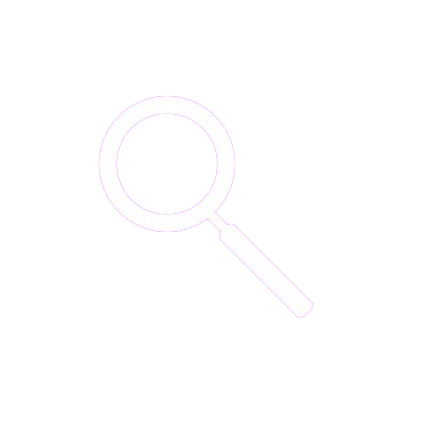
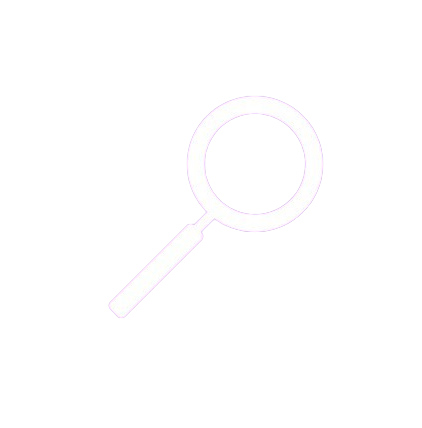
modified searchbox and sidebar

diff --git a/index.html b/index.html
@@ -1191,28 +1191,29 @@
                             <section id="block-3" class="widget widget_block">
                                 <div class="wp-block-group">
                                     <div class="wp-block-group__inner-container is-layout-flow wp-block-group-is-layout-flow">
-                                        <h2 class="wp-block-heading">Recent Posts</h2>
+                                        <h2 class="wp-block-heading">Open-Source Projects</h2>
                                         <ul class="wp-block-latest-posts__list wp-block-latest-posts">
-                                            <li><a class="wp-block-latest-posts__post-title" href="https://ryancv.bslthemes.com/app-developer/2020/04/28/brand-identity-with-code/">Brand Identity with Code</a></li>
-                                            <li><a class="wp-block-latest-posts__post-title" href="https://ryancv.bslthemes.com/app-developer/2020/04/28/data-center-infrastructure/">Data Center Infrastructure</a></li>
+                                            <li><a class="wp-block-latest-posts__post-title" href="timeless.html">Timeless</a></li>
+                                            <!-- <li><a class="wp-block-latest-posts__post-title" href="https://ryancv.bslthemes.com/app-developer/2020/04/28/data-center-infrastructure/">Data Center Infrastructure</a></li>
                                             <li><a class="wp-block-latest-posts__post-title" href="https://ryancv.bslthemes.com/app-developer/2020/04/28/music-player-design/">Music Player Design</a></li>
                                             <li><a class="wp-block-latest-posts__post-title" href="https://ryancv.bslthemes.com/app-developer/2020/04/28/data-analytics-dashboard/">Data Analytics Dashboard</a></li>
-                                            <li><a class="wp-block-latest-posts__post-title" href="https://ryancv.bslthemes.com/app-developer/2020/04/28/creativity-is-more-than/">Creativity Is More Than</a></li>
+                                            <li><a class="wp-block-latest-posts__post-title" href="https://ryancv.bslthemes.com/app-developer/2020/04/28/creativity-is-more-than/">Creativity Is More Than</a></li> -->
                                         </ul>
                                     </div>
                                 </div>
                             </section>
+                            
                             <section id="block-4" class="widget widget_block">
                                 <div class="wp-block-group">
                                     <div class="wp-block-group__inner-container is-layout-flow wp-block-group-is-layout-flow">
-                                        <h2 class="wp-block-heading">Recent Comments</h2>
+                                        <h2 class="wp-block-heading">Coming Soon</h2>
                                         <ol class="wp-block-latest-comments">
                                             <li class="wp-block-latest-comments__comment">
                                                 <article>
-                                                    <footer class="wp-block-latest-comments__comment-meta"><span class="wp-block-latest-comments__comment-author">Ryan Adlard</span> on <a class="wp-block-latest-comments__comment-link" href="https://ryancv.bslthemes.com/app-developer/2020/04/28/creativity-is-more-than/#comment-2">Creativity Is More Than</a></footer>
+                                                    <footer class="wp-block-latest-comments__comment-meta"><span class="wp-block-latest-comments__comment-author">Smart Brain</span> App <a class="wp-block-latest-comments__comment-link" href="https://ryancv.bslthemes.com/app-developer/2020/04/28/creativity-is-more-than/#comment-2">A facial recognition software</a></footer>
                                                 </article>
                                             </li>
-                                            <li class="wp-block-latest-comments__comment">
+                                            <!-- <li class="wp-block-latest-comments__comment">
                                                 <article>
                                                     <footer class="wp-block-latest-comments__comment-meta"><span class="wp-block-latest-comments__comment-author">James Rodri</span> on <a class="wp-block-latest-comments__comment-link" href="https://ryancv.bslthemes.com/app-developer/2020/04/28/music-player-design/#comment-3">Music Player Design</a></footer>
                                                 </article>
@@ -1231,34 +1232,38 @@
                                                 <article>
                                                     <footer class="wp-block-latest-comments__comment-meta"><span class="wp-block-latest-comments__comment-author">Ryan Adlard</span> on <a class="wp-block-latest-comments__comment-link" href="https://ryancv.bslthemes.com/app-developer/2020/04/28/brand-identity-with-code/#comment-8">Brand Identity with Code</a></footer>
                                                 </article>
-                                            </li>
+                                            </li> -->
                                         </ol>
                                     </div>
                                 </div>
                             </section>
-                            <section id="block-5" class="widget widget_block">
+
+                            <!-- <section id="block-5" class="widget widget_block">
                                 <div class="wp-block-group">
                                     <div class="wp-block-group__inner-container is-layout-flow wp-block-group-is-layout-flow">
-                                        <h2 class="wp-block-heading">Archives</h2>
+                                        <h2 class="wp-block-heading">Featured Blogs</h2>
                                         <ul class="wp-block-archives-list wp-block-archives">
                                             <li><a href='https://ryancv.bslthemes.com/app-developer/2020/04/'>April 2020</a></li>
                                         </ul>
                                     </div>
                                 </div>
-                            </section>
+                            </section> -->
+
                             <section id="block-6" class="widget widget_block">
                                 <div class="wp-block-group">
                                     <div class="wp-block-group__inner-container is-layout-flow wp-block-group-is-layout-flow">
-                                        <h2 class="wp-block-heading">Categories</h2>
+                                        <h2 class="wp-block-heading">Featured Blogs</h2>
                                         <ul class="wp-block-categories-list wp-block-categories">
-                                            <li class="cat-item cat-item-31"><a href="https://ryancv.bslthemes.com/app-developer/category/code/">Code</a></li>
-                                            <li class="cat-item cat-item-17"><a href="https://ryancv.bslthemes.com/app-developer/category/design/">Design</a></li>
-                                            <li class="cat-item cat-item-18"><a href="https://ryancv.bslthemes.com/app-developer/category/music/">Music</a></li>
+                                            <li class="cat-item cat-item-31"><a href="https://ryancv.bslthemes.com/app-developer/category/code/">From Garage to Global</a></li>
+                                            <li class="cat-item cat-item-17"><a href="https://ryancv.bslthemes.com/app-developer/category/design/">Unveiling Tomorrow</a></li>
+                                            <li class="cat-item cat-item-18"><a href="https://ryancv.bslthemes.com/app-developer/category/music/">Beyond Reality</a></li>
                                         </ul>
                                     </div>
                                 </div>
                             </section>
+
                         </aside>
+
                         <!-- #secondary -->
                     </div> <span class="close"></span></div>
                 <div class="card-inner animated active" id="card-home">
@@ -2319,7 +2324,15 @@
                                                         <!-- work item -->
                                                         <div class="col col-d-6 col-t-6 col-m-12 border-line-h grid-item f-content ">
                                                             <div class="box-item">
-                                                                <div class="image"> <a href="#popup-82" class="has-popup-media" data-elementor-lightbox-title="Cryptocurrency Dashboard Application" data-elementor-lightbox-slideshow="gallery-82"> <img fetchpriority="high" decoding="async" width="1200" height="1200" src="https://ryancv.bslthemes.com/app-developer/wp-content/uploads/sites/19/2020/04/work-r2.jpg" class="attachment-ryancv_600xauto size-ryancv_600xauto wp-post-image" alt="" srcset="https://ryancv.bslthemes.com/app-developer/wp-content/uploads/sites/19/2020/04/work-r2.jpg 1200w, https://ryancv.bslthemes.com/app-developer/wp-content/uploads/sites/19/2020/04/work-r2-300x300.jpg 300w, https://ryancv.bslthemes.com/app-developer/wp-content/uploads/sites/19/2020/04/work-r2-1024x1024.jpg 1024w, https://ryancv.bslthemes.com/app-developer/wp-content/uploads/sites/19/2020/04/work-r2-150x150.jpg 150w, https://ryancv.bslthemes.com/app-developer/wp-content/uploads/sites/19/2020/04/work-r2-768x768.jpg 768w, https://ryancv.bslthemes.com/app-developer/wp-content/uploads/sites/19/2020/04/work-r2-184x184.jpg 184w, https://ryancv.bslthemes.com/app-developer/wp-content/uploads/sites/19/2020/04/work-r2-280x280.jpg 280w, https://ryancv.bslthemes.com/app-developer/wp-content/uploads/sites/19/2020/04/work-r2-560x560.jpg 560w, https://ryancv.bslthemes.com/app-developer/wp-content/uploads/sites/19/2020/04/work-r2-100x100.jpg 100w" sizes="(max-width: 1200px) 100vw, 1200px" /> <span class="info"> <span class="ion ion-ios-eye-outline"></span> </span> </a></div>
+                                                                <div class="image"> 
+                                                                    <a href="#popup-82" class="has-popup-media" data-elementor-lightbox-title="Cryptocurrency Dashboard Application" data-elementor-lightbox-slideshow="gallery-82"> 
+                                                                        <img fetchpriority="high" decoding="async" width="1200" height="1200" src="wp-content/uploads/sites/19/2020/04/work-r2.jpg" class="attachment-ryancv_600xauto size-ryancv_600xauto wp-post-image" alt="" srcset="wp-content/uploads/sites/19/2020/04/work-r2.jpg 1200w, wp-content/uploads/sites/19/2020/04/work-r2-300x300.jpg 300w, wp-content/uploads/sites/19/2020/04/work-r2-1024x1024.jpg 1024w, wp-content/uploads/sites/19/2020/04/work-r2-150x150.jpg 150w, wp-content/uploads/sites/19/2020/04/work-r2-768x768.jpg 768w, wp-content/uploads/sites/19/2020/04/work-r2-184x184.jpg 184w, wp-content/uploads/sites/19/2020/04/work-r2-280x280.jpg 280w, wp-content/uploads/sites/19/2020/04/work-r2-560x560.jpg 560w, wp-content/uploads/sites/19/2020/04/work-r2-100x100.jpg 100w" sizes="(max-width: 1200px) 100vw, 1200px" /> 
+                                                                        <span class="info"> 
+                                                                            <span class="ion ion-ios-eye-outline"></span> 
+                                                                        </span> 
+                                                                    </a>
+                                                                    
+                                                                </div>
                                                                 <div
                                                                     class="desc"> <a href="https://ryancv.bslthemes.com/app-developer/portfolio-archive/cryptocurrency-dashboard-app/" class="name">Cryptocurrency Dashboard Application</a>
                                                                     <div class="category">Content</div>

diff --git a/wp-content/cache/autoptimize/19/css/autoptimize_090deec4e11449c90d2fe4c1dca2ee4b.css b/wp-content/cache/autoptimize/19/css/autoptimize_090deec4e11449c90d2fe4c1dca2ee4b.css
@@ -10278,8 +10278,8 @@ a.next.page-numbers:hover {
     position: relative;
     padding: 10px 0;
     margin: 0;
-    color: #999;
-    border-top: 1px solid #eee
+    color: #ffffff;
+    border-top: 1px solid #776d6d
 }
 
 .content-sidebar .widget ul li:last-child .content-sidebar .widget ol li:last-child {
@@ -10289,11 +10289,11 @@ a.next.page-numbers:hover {
 .content-sidebar .widget ul li a,
 .content-sidebar .widget ol li a {
     padding-bottom: 0;
-    color: #363636
+    color: rgb(104, 100, 100);
 }
 
 .content-sidebar .widget ul li a:hover {
-    color: #78cc6d
+    color: #ffecec
 }
 
 .content-sidebar .widget ul li li {
@@ -10445,8 +10445,8 @@ a.next.page-numbers:hover {
 
 .search-form input.search-submit:hover,
 .wp-block-search .wp-block-search__button:hover {
-    background: url(//ryancv.bslthemes.com/app-developer/wp-content/themes/ryancv/assets/images/android-search.png) no-repeat center center;
-    background-size: 18px 18px
+    background: url(/wp-content/themes/ryancv/assets/images/android-search.png) no-repeat center center;
+    background-size: 25px 25px;
 }
 
 .content-sidebar h2.widget-title,
@@ -10455,7 +10455,7 @@ a.next.page-numbers:hover {
     padding: 0 0 5px;
     position: relative;
     font-size: 18px;
-    color: #323232;
+    color: #78cc6d;
     line-height: 21px;
     font-weight: 600
 }
